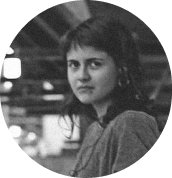
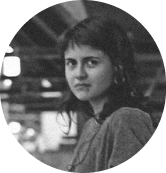
fotos da equipe atualizadas

diff --git a/src/pages/Team/index.js b/src/pages/Team/index.js
@@ -3,6 +3,8 @@ import React from 'react';
 import Header from '../../components/Header/Header';
 import lucas from '../../assets/lucas.png'
 import mellyssa from '../../assets/mellyssa.png'
+import ruan from '../../assets/ruan.png'
+import matheus from '../../assets/matheus.png'
 import retang from '../../assets/retangle.png'
 import {ContainerTeam} from './styles';
 import Footer from '../../components/Footer/Footer';
@@ -35,7 +37,7 @@ export default function Team() {
         <img src={retang} className="retang" alt="retangulo"/>
 
         <div className="perfil" > 
-          <a href="https://linkedin.com/"> <img src={lucas} alt="foto-lucas"></img> </a>
+          <a href="https://github.com/pedr0schmidt"> <img src={ruan} alt="foto-ruan"></img> </a>
           <h3>Ruan Pedro</h3>
           <p>Desenvolvedor Back End</p>
         </div>
@@ -43,7 +45,7 @@ export default function Team() {
         <img src={retang} className="retang" alt="retangulo"/>
 
         <div className="perfil" > 
-          <a href="https://linkedin.com/"> <img src={lucas} alt="foto-lucas"></img> </a>
+          <a href="https://instagram.com/matheus.vmh"> <img src={matheus} alt="foto-matheus"></img> </a>
           <h3>Matheus Soares</h3>
           <p>Desenvolvedor Front End</p>
         </div>

diff --git a/src/components/Header/Header.js b/src/components/Header/Header.js
@@ -11,7 +11,7 @@ const MyNavBar = styled.div`
     display:flex;
     flex-flow: row nowrap;
     justify-content: flex-end;
-    overflow: hidden !important;
+    overflow-x: hidden !important;
     max-width: 100%;
     z-index: 5;
     height: 110px;
@@ -25,6 +25,7 @@ const MyNavBar = styled.div`
     }
     
     @media (max-width:980px){
+        overflow-x: hidden !important;
         .logo{
             width: 80px;
             left: 20px;

diff --git a/src/pages/Team/styles.js b/src/pages/Team/styles.js
@@ -14,7 +14,6 @@ export const ContainerTeam = styled.div`
 
         @media(max-width:980px){
             flex-direction: column;
-            
         }    
     }
 
@@ -31,6 +30,7 @@ export const ContainerTeam = styled.div`
         display: none;
         }
     }
+    
     h4{
         font-weight: bold;
     }

diff --git a/src/components/Header/Mobile/stylesMobile.js b/src/components/Header/Mobile/stylesMobile.js
@@ -7,6 +7,7 @@ export const MyMobileNavBar = styled.nav`
     height: 300px;
     z-index: 6;
     background-color: #fff;
+    
 
 @media (max-width:980px){
 
